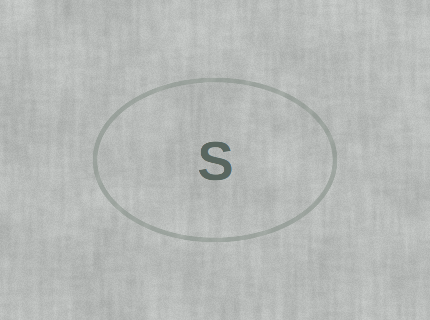
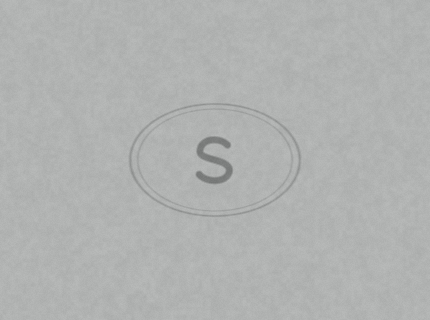
Point 3: matte printed scratch coatings, subtle gameplay grain and soft ticket contact shadow

diff --git a/Assets/Scripts/ScratchVintageGameplayHUD.cs b/Assets/Scripts/ScratchVintageGameplayHUD.cs
@@ -258,12 +258,12 @@ public sealed partial class ScratchVintageGameplayHUD : MonoBehaviour
             shopWalletPanel.SetActive(flow.ShopOpen);
         if (shadow == null || ticket == null || ticketGroup == null) return;
         var rt = shadow.rectTransform;
-        rt.sizeDelta = ticket.sizeDelta;
+        rt.sizeDelta = ticket.sizeDelta + new Vector2(48f, 48f);
         rt.localScale = ticket.localScale;
         rt.localRotation = ticket.localRotation;
         rt.anchoredPosition = ticket.anchoredPosition + (Vector2)(ticket.localRotation *
-            new Vector3(12 * ticket.localScale.x, -14 * ticket.localScale.y, 0));
-        shadow.color = new Color(.06f,.11f,.09f,.45f * ticketGroup.alpha);
+            new Vector3(6 * ticket.localScale.x, -9 * ticket.localScale.y, 0));
+        shadow.color = new Color(.025f,.045f,.035f,.42f * ticketGroup.alpha);
     }
 
     private static void Set(TMP_Text label, string value)
